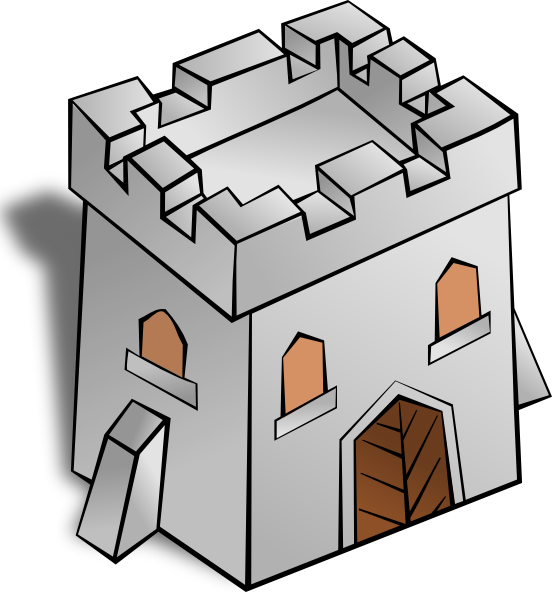
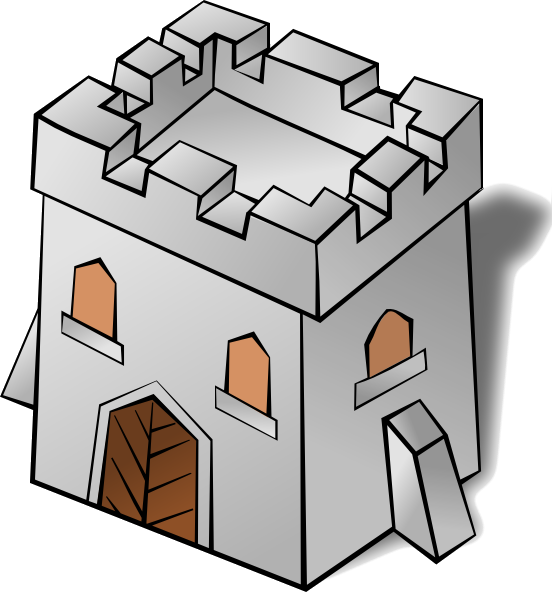
fix house image

diff --git a/src/GameWindow.java b/src/GameWindow.java
@@ -21,7 +21,7 @@ public class GameWindow extends Frame implements Runnable{
         setSize(930, 690);
         backBuffer = new BufferedImage(930, 690, BufferedImage.TYPE_3BYTE_BGR);
         background = loadImage("res/Map1.png");
-        house = HouseController.create(850, 250);
+        house = HouseController.create(850, 220);
 
         addWindowListener(new WindowListener() {
             @Override

diff --git a/src/controller/HouseController.java b/src/controller/HouseController.java
@@ -21,6 +21,6 @@ public class HouseController extends Controller {
 
     public static HouseController create(int x, int y) {
         return new HouseController(new Model(x, y, 150, 150, false, 0, 10, 0, 0),
-                new View(Utils.loadImage("res/house.png")));
+                new View(Utils.loadImage("res/house2.png")));
     }
 }
